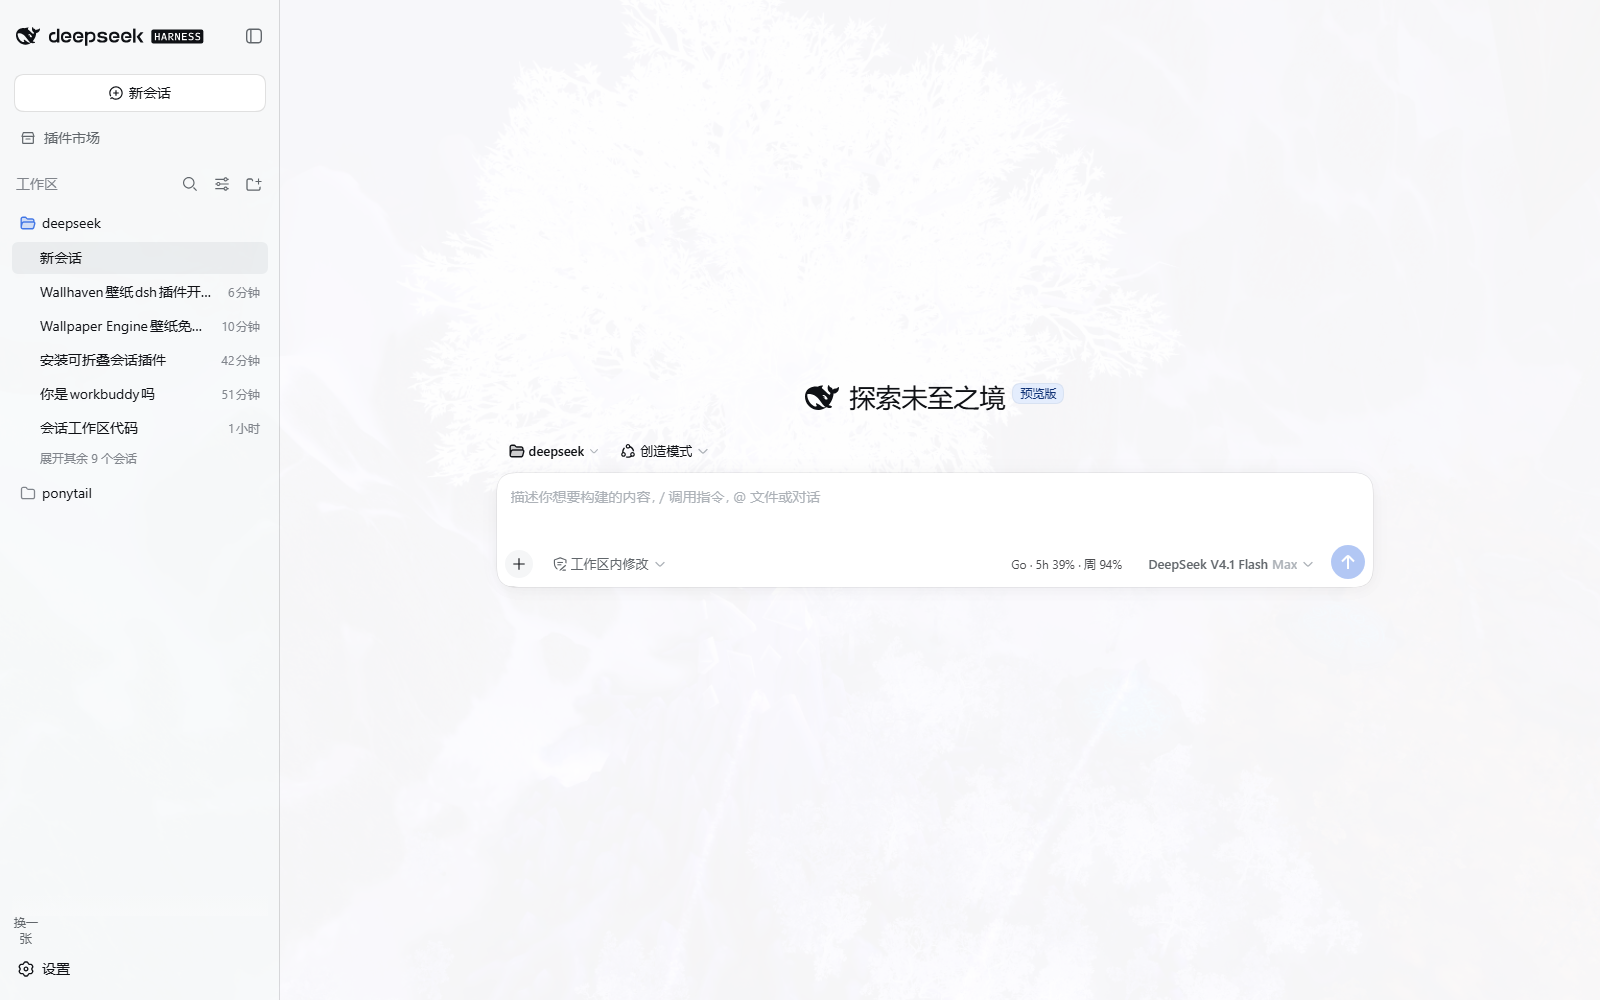
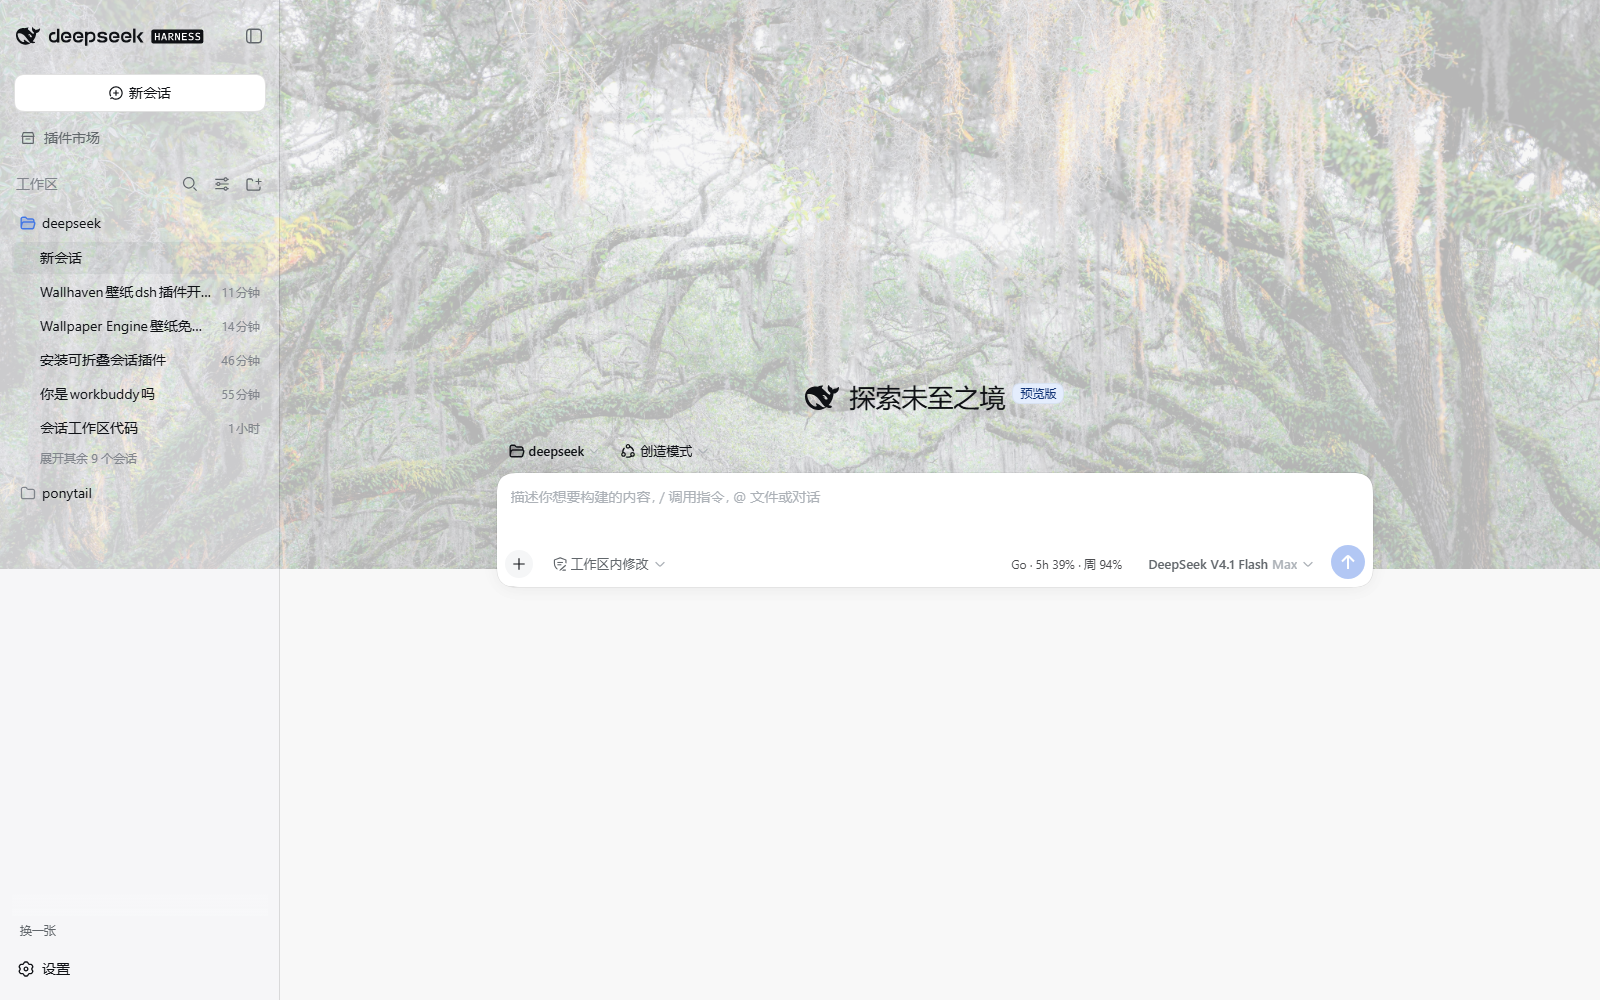
perf(client): 背景图层去掉无谓的合成提升与外扩
默认模糊为 0 时，will-change:filter 会把一个整屏元素提升成独立合成层，
inset:-64px 又让它的绘制面积比视口大 ~20%——两者都是纯开销。改成按需：
只有真的开了模糊才外扩（模糊会采样到边缘之外），will-change 直接去掉。

diff --git a/lib/client.js b/lib/client.js
@@ -804,7 +804,11 @@ const SURFACE_TOKENS = [
 /** Geometry and stacking of the wallpaper layer; values arrive as properties. */
 const LAYER_CSS = [
   '[data-dsh-wh-layer]{position:fixed;inset:0;z-index:-1;pointer-events:none;overflow:hidden}',
-  '[data-dsh-wh-image]{position:absolute;inset:-64px;background-repeat:no-repeat;background-position:center center;background-size:cover;will-change:filter}',
+  /* No `will-change: filter`, and no permanent bleed: with the default blur of
+     0 both are pure cost — a promoted compositing layer and an image box ~20%
+     larger than the viewport — for an element that is already the size of the
+     screen. The bleed is applied only while a blur actually needs it. */
+  '[data-dsh-wh-image]{position:absolute;inset:0;background-repeat:no-repeat;background-position:center center;background-size:cover}',
   '[data-dsh-wh-image][data-fit="contain"]{background-size:contain}',
   '[data-dsh-wh-image][data-fit="fill"]{background-size:100% 100%}',
   '[data-dsh-wh-image][data-fit="tile"]{background-size:auto;background-repeat:repeat}',
@@ -901,11 +905,15 @@ function createBackground() {
 
     const position = config.position === 'center' ? 'center center' : config.position;
     const scrim = Math.max(0, Math.min(0.9, config.scrim));
+    // A blur samples past the edge it blurs, so the image is grown just enough
+    // to keep the soft edge off screen — and not one pixel more when there is
+    // no blur to hide.
+    const bleed = config.blur > 0 ? Math.ceil(config.blur * 3) + 8 : 0;
 
     return [
       `html{background-color:${opaqueBase}}`,
       declarations.length === 0 ? '' : `${selector}{${declarations.join(';')}}`,
-      `[data-dsh-wh-image]{background-position:${position};filter:blur(${String(config.blur)}px)}`,
+      `[data-dsh-wh-image]{inset:calc(-1 * ${String(bleed)}px);background-position:${position};filter:blur(${String(config.blur)}px)}`,
       `[data-dsh-wh-scrim]{background:rgba(0,0,0,${scrim.toFixed(3)})}`,
     ].filter((rule) => rule !== '').join('\n');
   }

diff --git a/src/client.js b/src/client.js
@@ -303,7 +303,11 @@ const SURFACE_TOKENS = [
 /** Geometry and stacking of the wallpaper layer; values arrive as properties. */
 const LAYER_CSS = [
   '[data-dsh-wh-layer]{position:fixed;inset:0;z-index:-1;pointer-events:none;overflow:hidden}',
-  '[data-dsh-wh-image]{position:absolute;inset:-64px;background-repeat:no-repeat;background-position:center center;background-size:cover;will-change:filter}',
+  /* No `will-change: filter`, and no permanent bleed: with the default blur of
+     0 both are pure cost — a promoted compositing layer and an image box ~20%
+     larger than the viewport — for an element that is already the size of the
+     screen. The bleed is applied only while a blur actually needs it. */
+  '[data-dsh-wh-image]{position:absolute;inset:0;background-repeat:no-repeat;background-position:center center;background-size:cover}',
   '[data-dsh-wh-image][data-fit="contain"]{background-size:contain}',
   '[data-dsh-wh-image][data-fit="fill"]{background-size:100% 100%}',
   '[data-dsh-wh-image][data-fit="tile"]{background-size:auto;background-repeat:repeat}',
@@ -400,11 +404,15 @@ function createBackground() {
 
     const position = config.position === 'center' ? 'center center' : config.position;
     const scrim = Math.max(0, Math.min(0.9, config.scrim));
+    // A blur samples past the edge it blurs, so the image is grown just enough
+    // to keep the soft edge off screen — and not one pixel more when there is
+    // no blur to hide.
+    const bleed = config.blur > 0 ? Math.ceil(config.blur * 3) + 8 : 0;
 
     return [
       `html{background-color:${opaqueBase}}`,
       declarations.length === 0 ? '' : `${selector}{${declarations.join(';')}}`,
-      `[data-dsh-wh-image]{background-position:${position};filter:blur(${String(config.blur)}px)}`,
+      `[data-dsh-wh-image]{inset:calc(-1 * ${String(bleed)}px);background-position:${position};filter:blur(${String(config.blur)}px)}`,
       `[data-dsh-wh-scrim]{background:rgba(0,0,0,${scrim.toFixed(3)})}`,
     ].filter((rule) => rule !== '').join('\n');
   }
